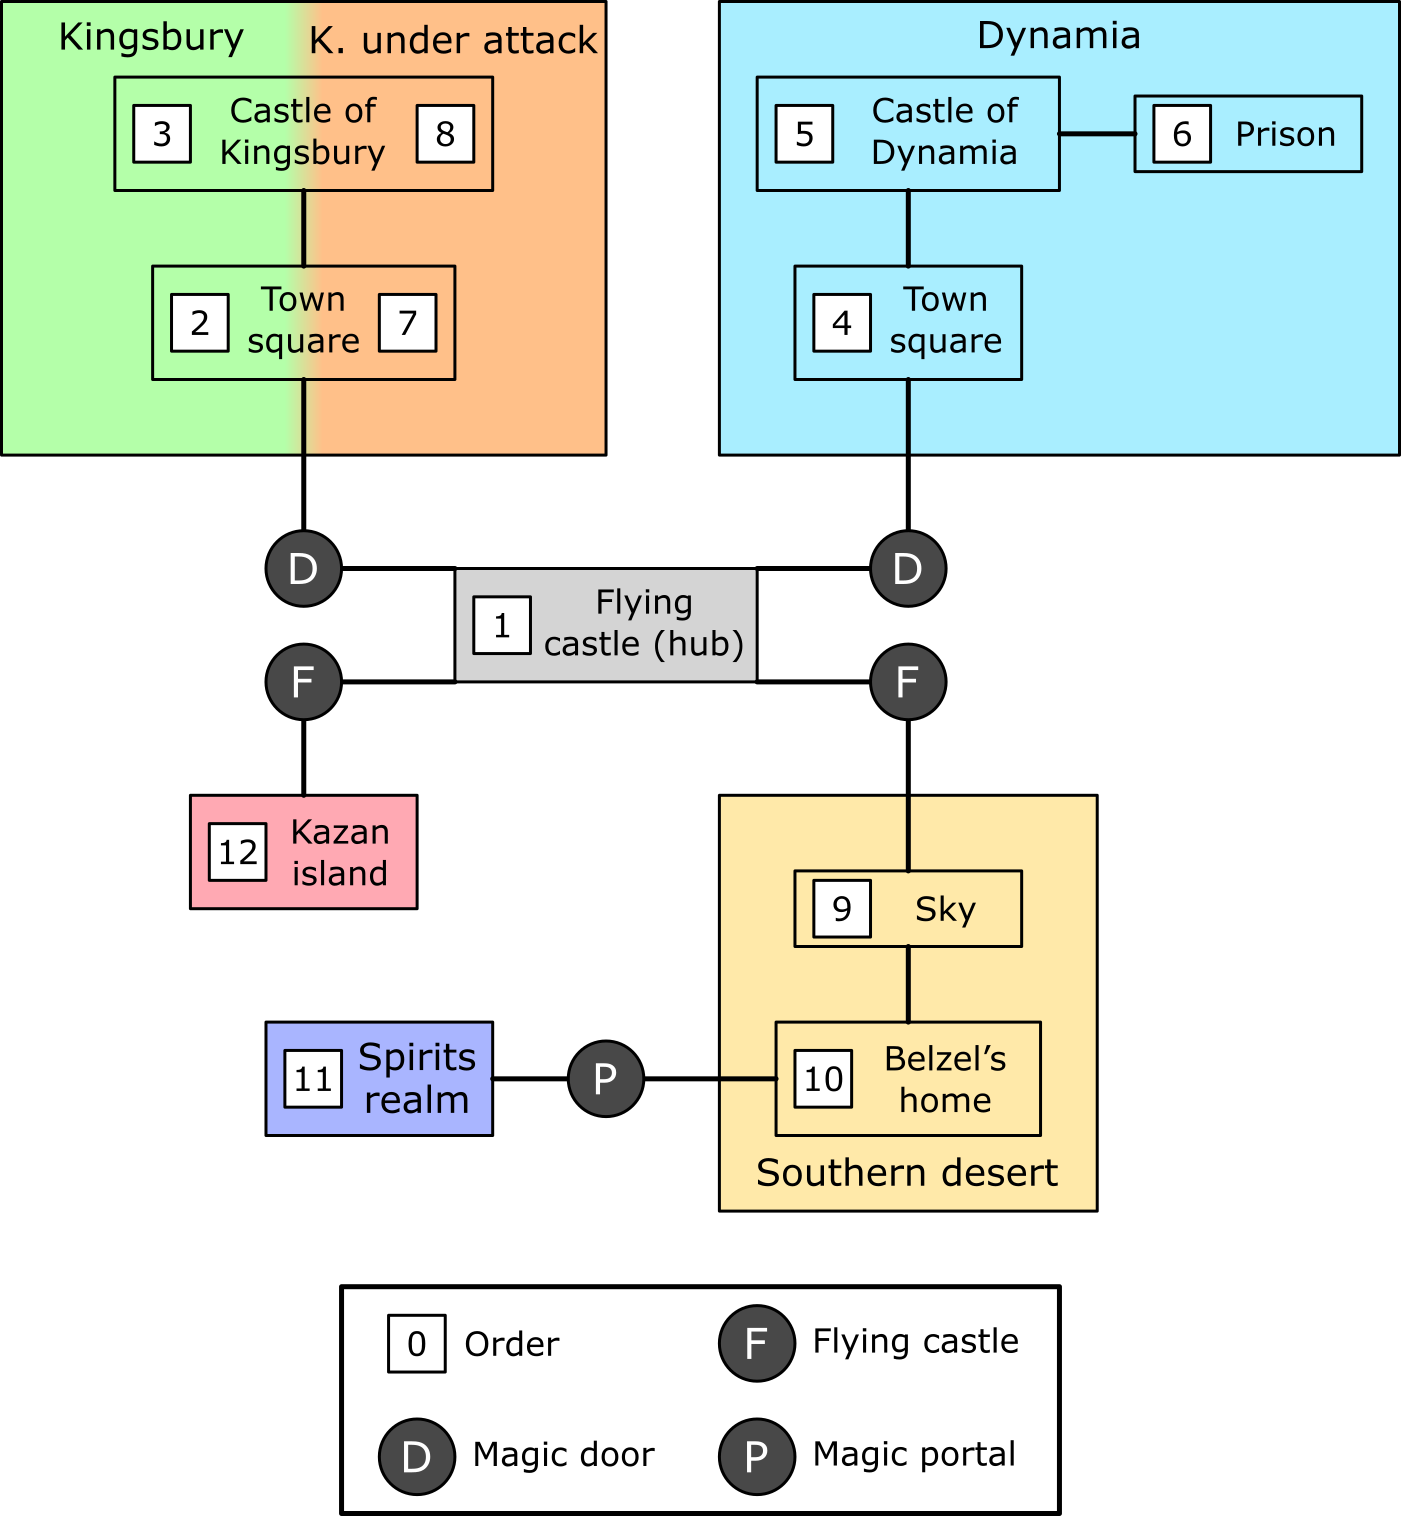
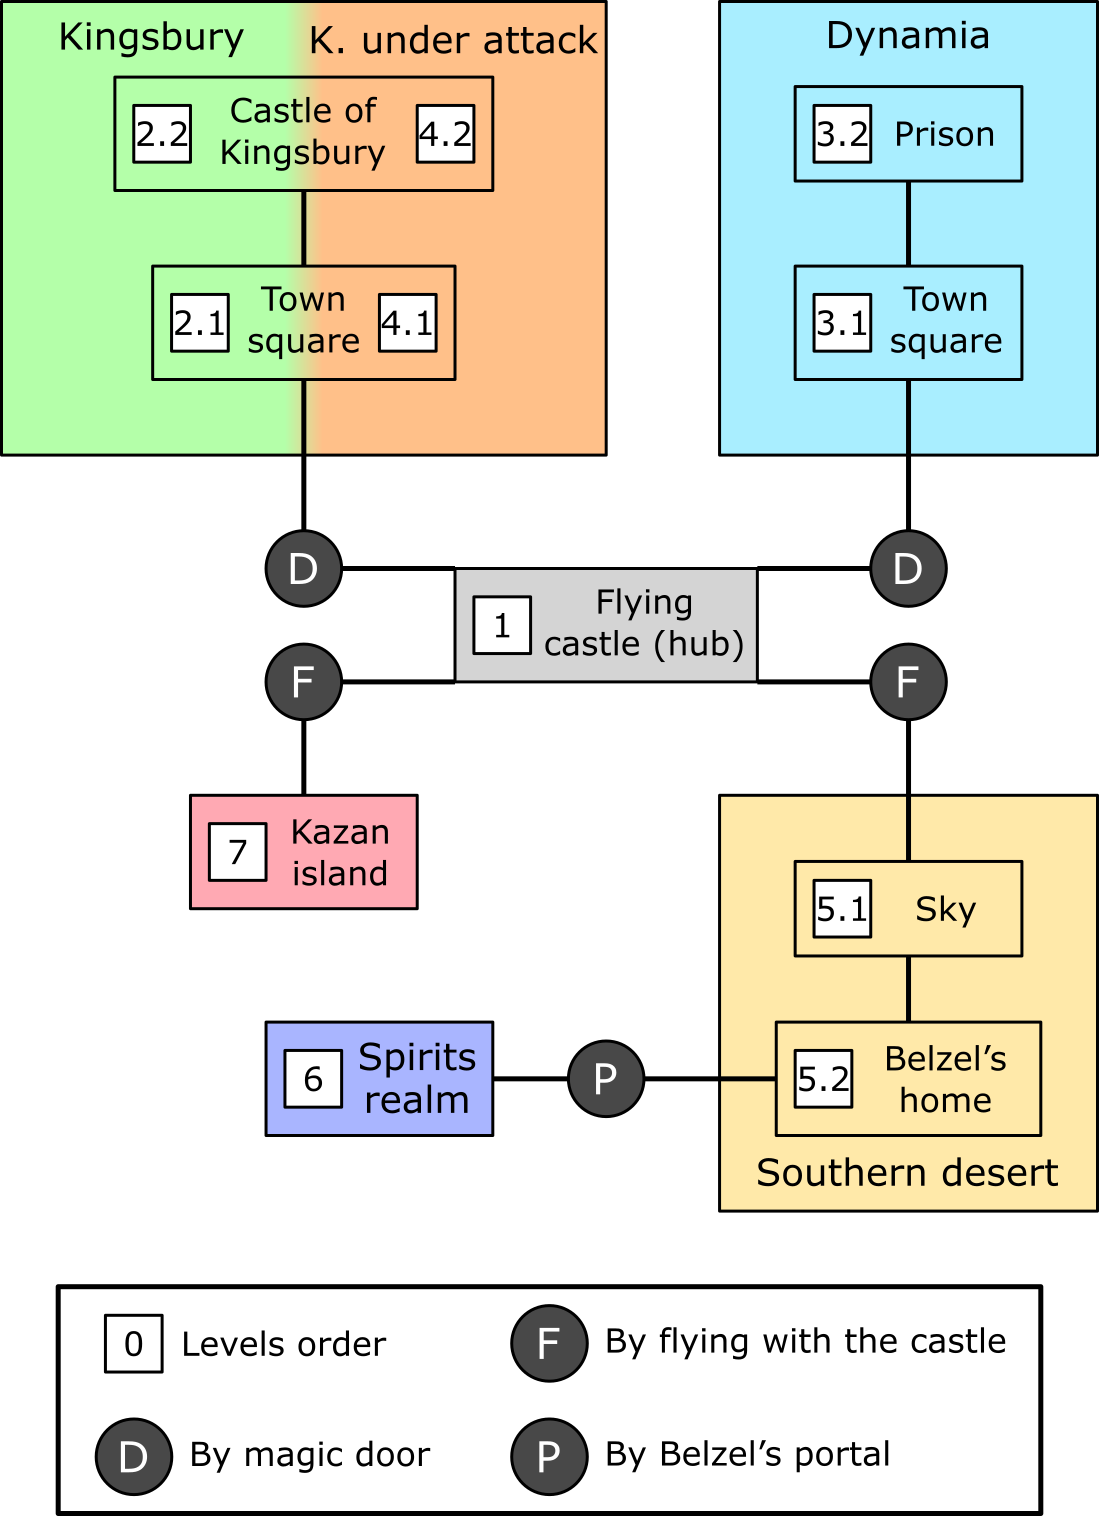
Aggiornato world diagram.

diff --git a/Documents/LevelDesignDocument/Story/worldDiagram.tex b/Documents/LevelDesignDocument/Story/worldDiagram.tex
@@ -2,14 +2,14 @@
 
 \section{World diagram}
 
-The game world consist in five levels plus the flying castle as hub level. The levels are connected as follows.
+The game world consist in seven levels. One is the hub level. Kingsbury is presented in two different versions and the player will visit both of them in different part of the story.
 
 Each level is unlocked at the completion of the previous one (linear progression).
 
-There are two versions of the level Kingsbury, the player will visit both of them in different part of the story.
+The levels are connected as follows.
 
 \begin{figure}[H]
   \centering
-  \includegraphics[width=\textwidth]{Images/Diagrams/worldDiagram}
+  \includegraphics[height=19cm]{Images/Diagrams/worldDiagram}
   \caption{World diagram}
 \end{figure}
